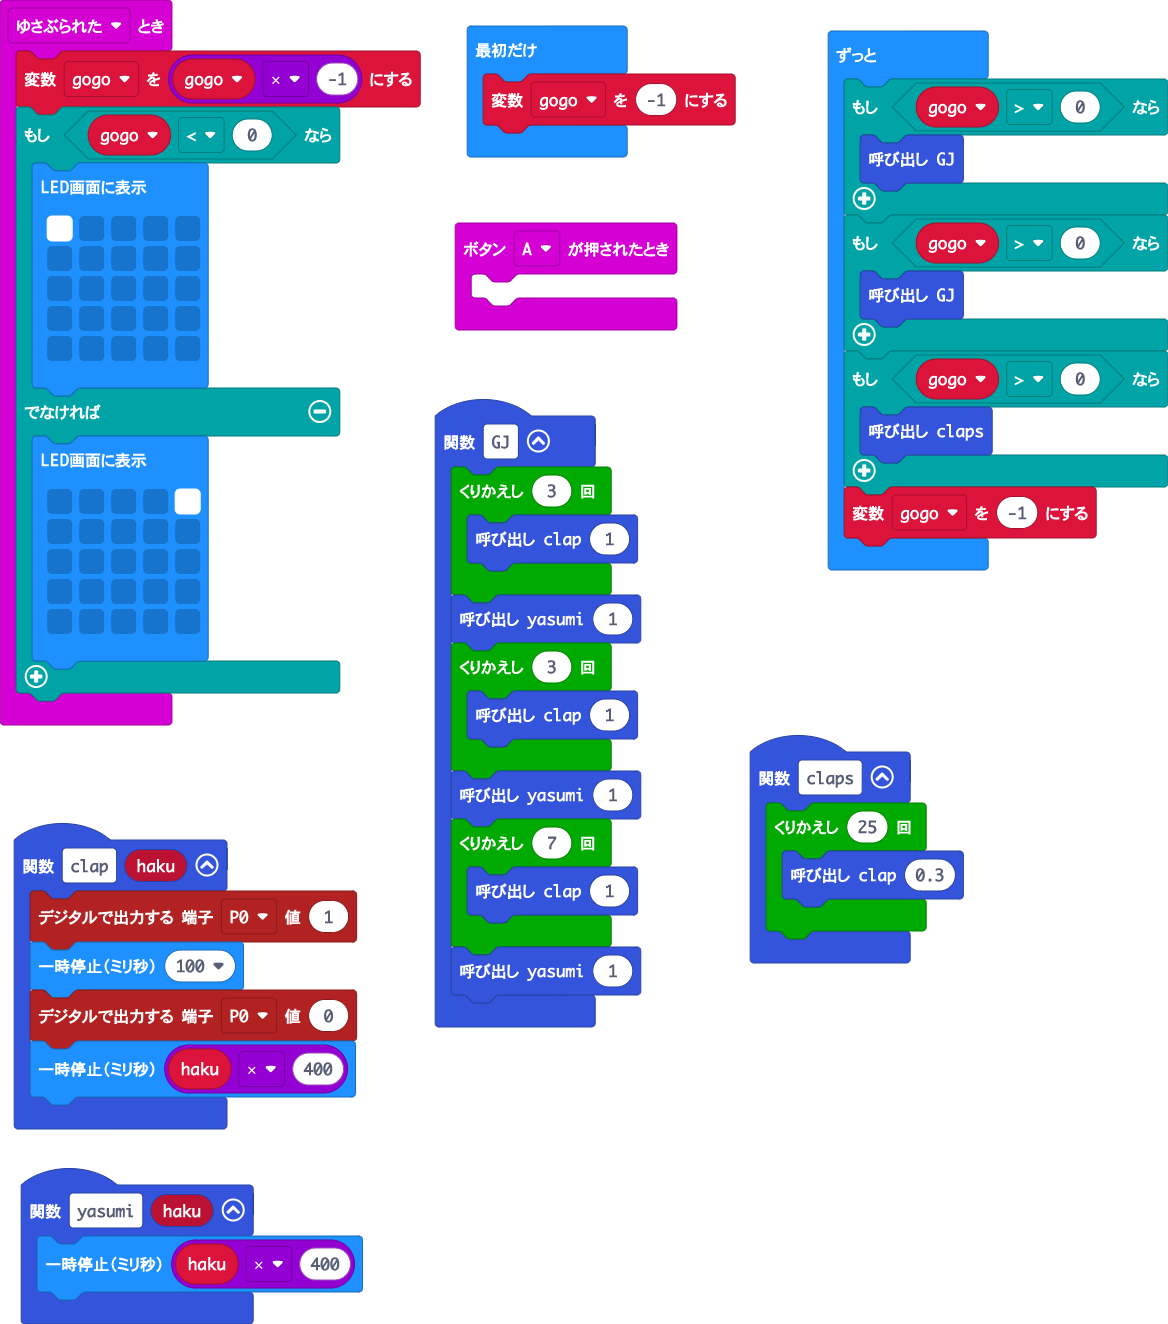
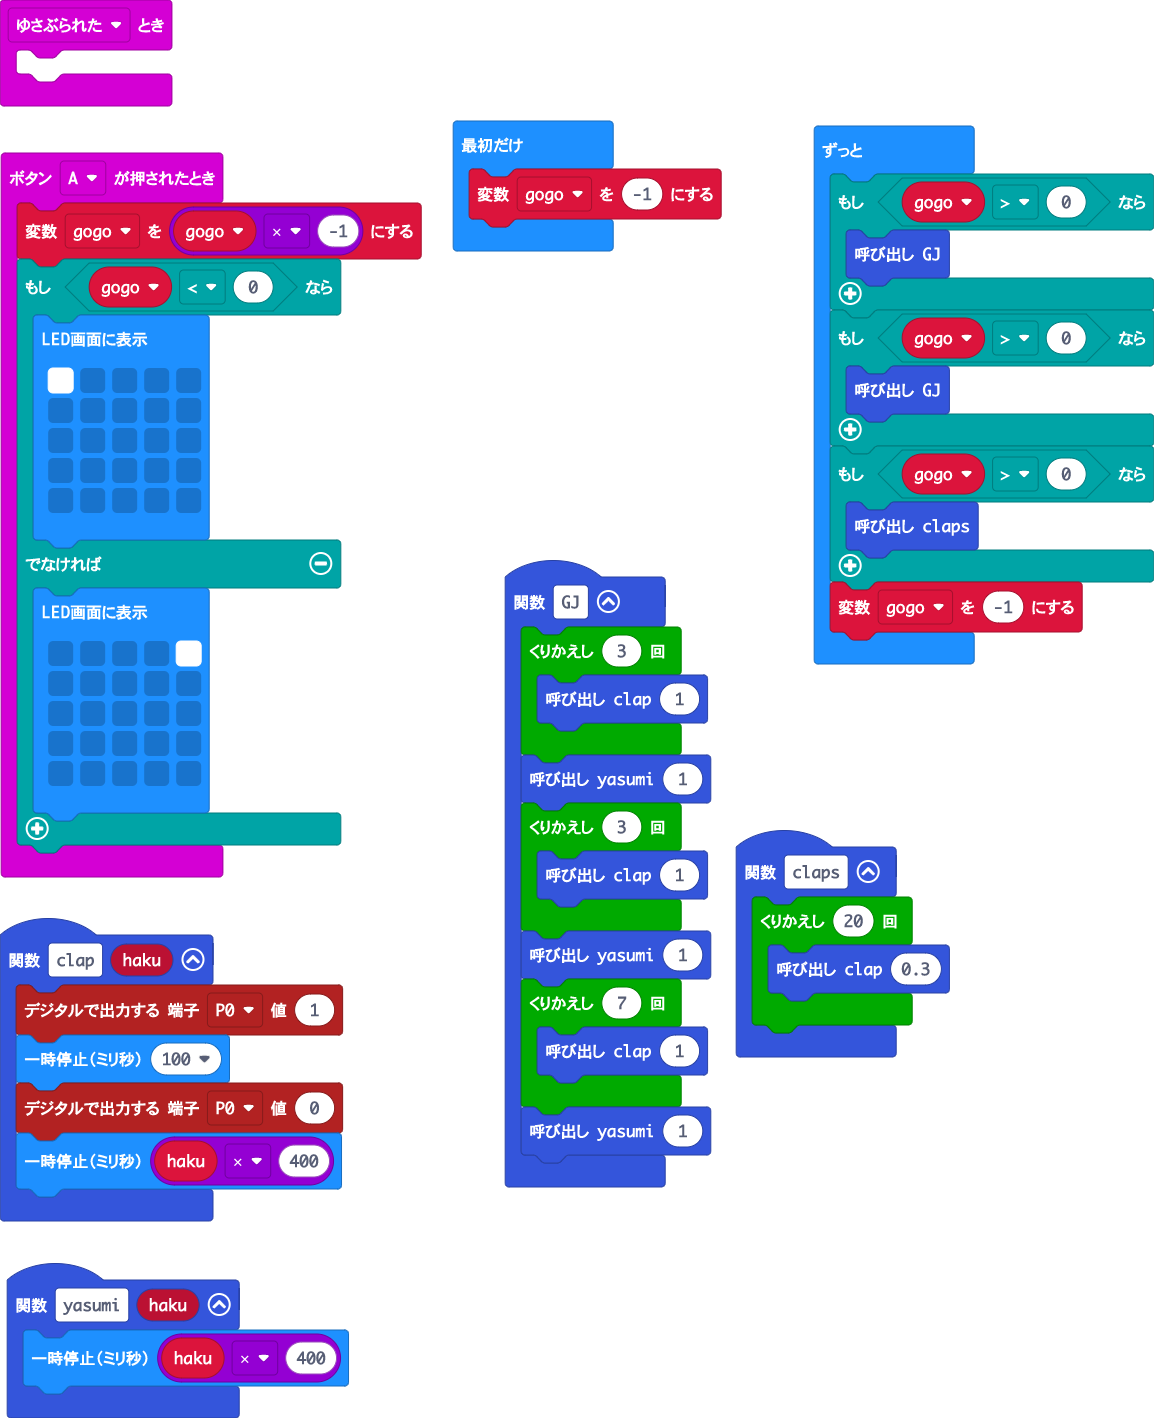
どんな変更かわすれてしまった。。。。コードとしては正しいのでOKとする。

diff --git a/main.ts b/main.ts
@@ -22,9 +22,6 @@ function yasumi (haku: number) {
     basic.pause(haku * 400)
 }
 input.onButtonPressed(Button.A, function () {
-	
-})
-input.onGesture(Gesture.Shake, function () {
     gogo = gogo * -1
     if (gogo < 0) {
         basic.showLeds(`
@@ -44,8 +41,11 @@ input.onGesture(Gesture.Shake, function () {
             `)
     }
 })
+input.onGesture(Gesture.Shake, function () {
+	
+})
 function claps () {
-    for (let index = 0; index < 25; index++) {
+    for (let index = 0; index < 20; index++) {
         clap(0.3)
     }
 }
